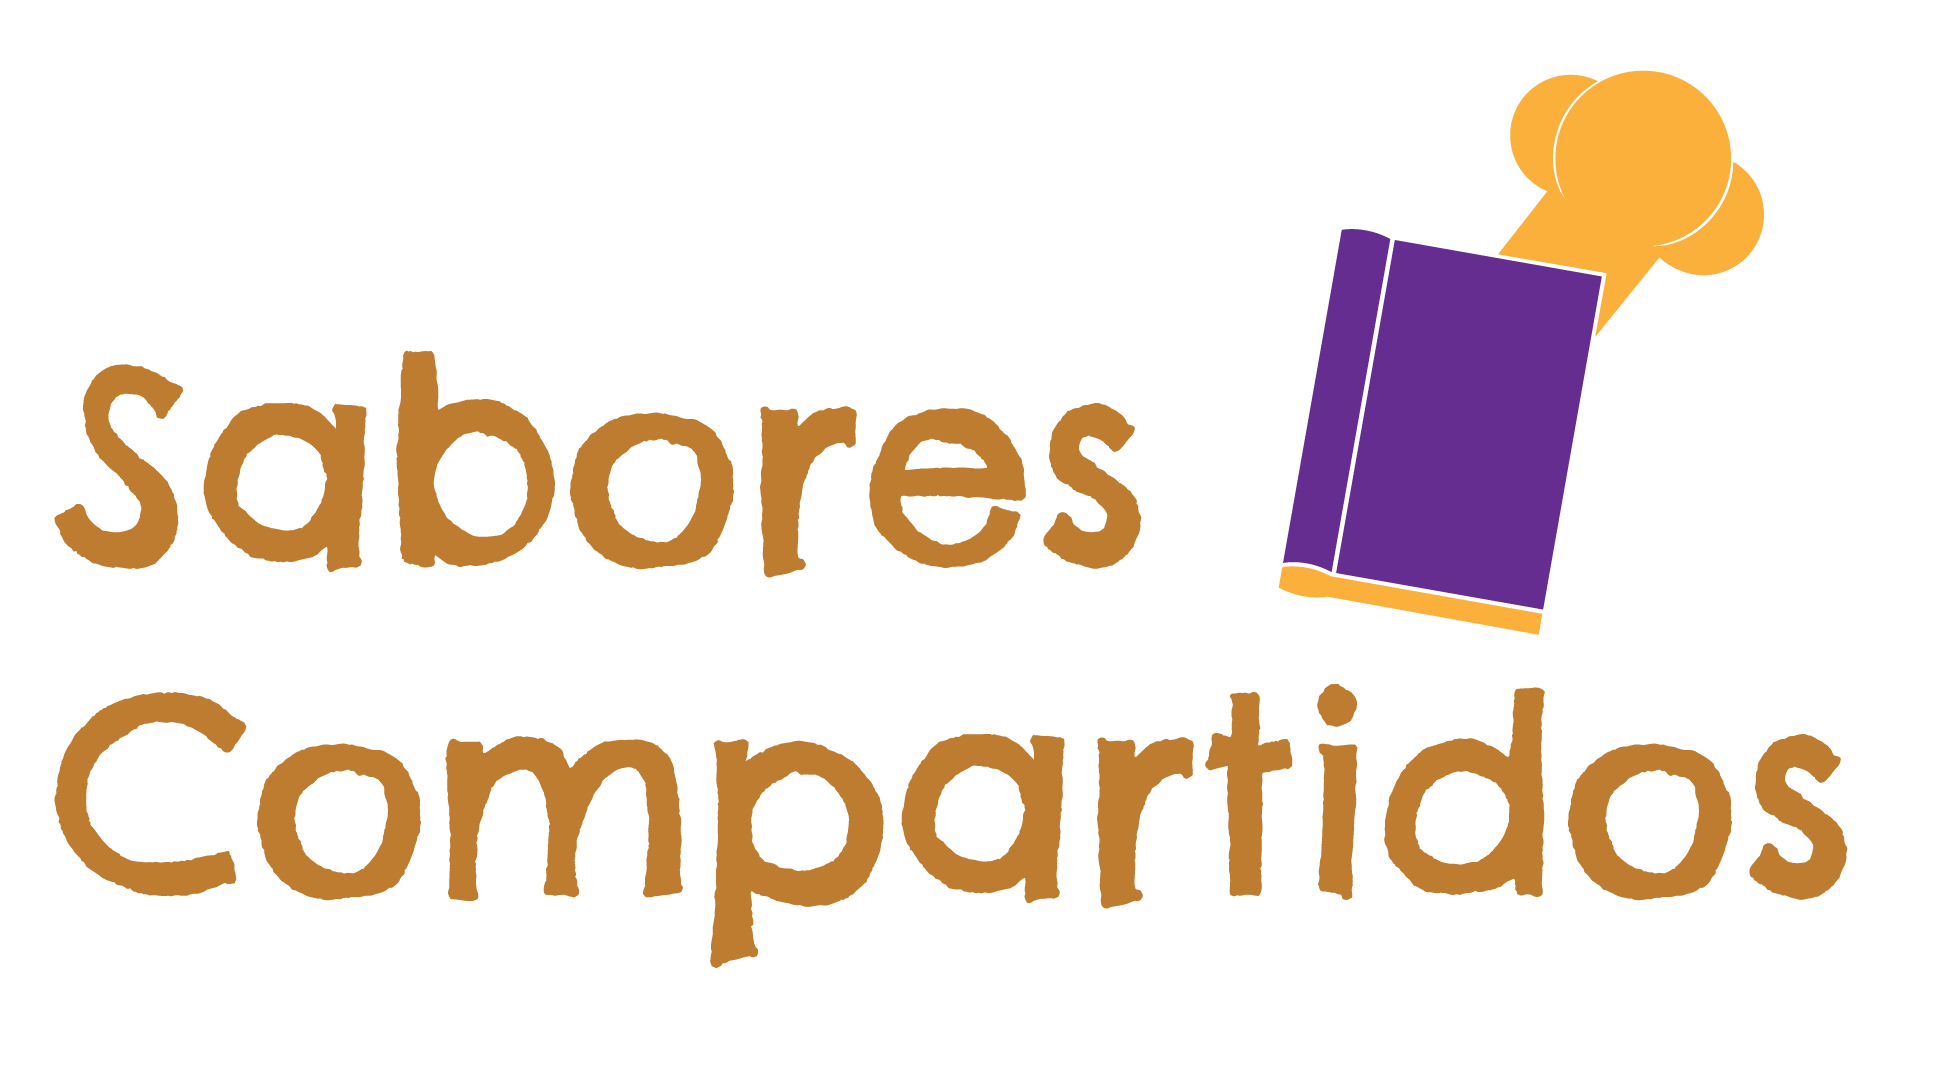
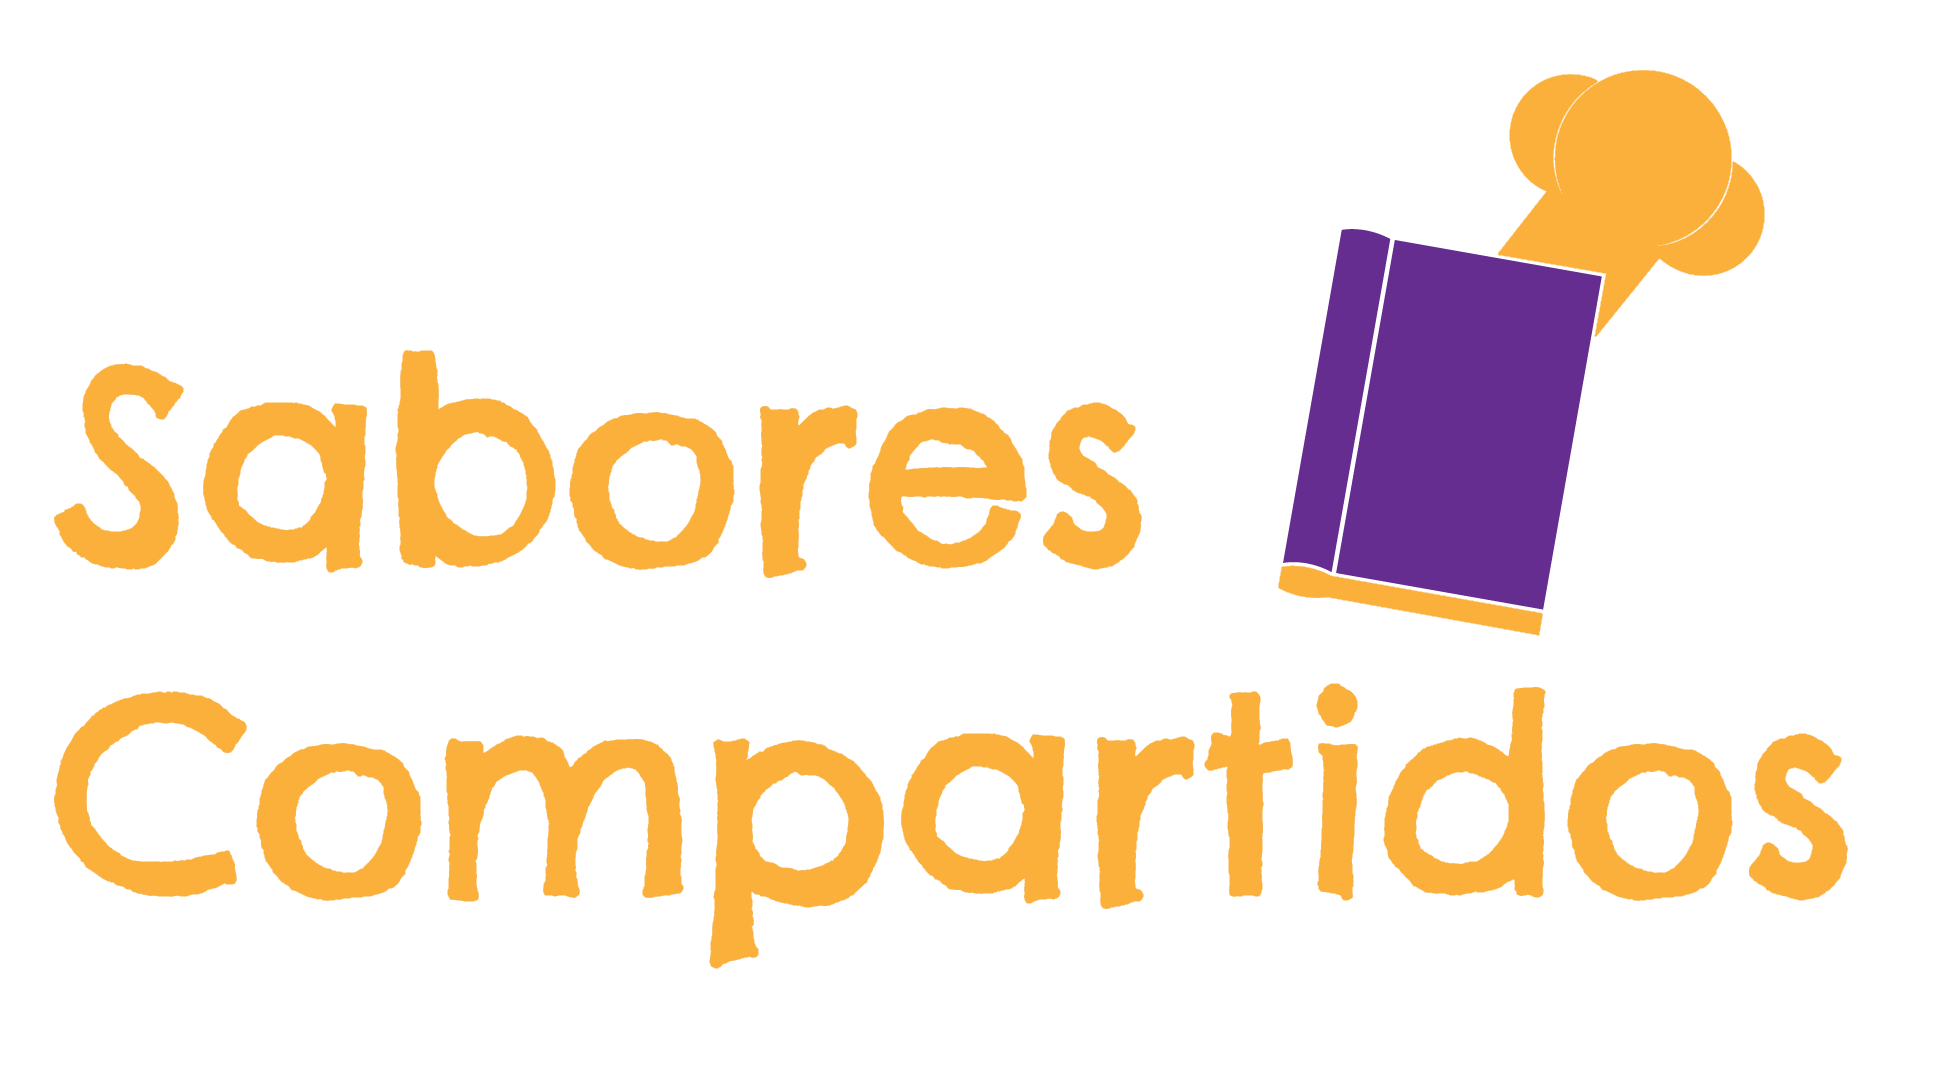
XD

Changed region(s): [[0.0308, 0.6186, 0.9558, 0.8969], [0.0308, 0.3093, 0.5858, 0.5567]]

diff --git a/SaboresCompartidos/index.html b/SaboresCompartidos/index.html
@@ -12,37 +12,31 @@
 </head>
 <body class="d-flex flex-column" data-bs-theme="dark">
 	<header>
-		<nav class="navbar navbar-expand-lg bg-primary">
+		<nav class="navbar navbar-expand-lg bg-success">
 			<div class="container-fluid w-50 mx-auto">
 				<a class="navbar-brand" href="#">
 					<img src="img/Imagotipo.png" alt="Sabores Compartidos" height="64">
 				</a>
 
+				<div class="flex-grow-1"></div>
+
 				<button class="navbar-toggler" type="button" data-bs-toggle="collapse" data-bs-target="#navbarSupportedContent" aria-controls="navbarSupportedContent" aria-expanded="false" aria-label="Toggle navigation">
 					<span class="navbar-toggler-icon"></span>
 				</button>
 
-				<div class="collapse navbar-collapse" id="navbarSupportedContent">
-					<ul class="navbar-nav me-auto mb-2 mb-lg-0">
+				<div class="collapse navbar-collapse justify-content-end" id="navbarSupportedContent">
+					<ul class="navbar-nav mb-2 mb-lg-0 p-0">
 						<li class="nav-item">
-							<a class="nav-link active" aria-current="page" href="#">Home</a>
+							<a class="nav-link active" aria-current="page" href="#">Inicio</a>
 						</li>
 						<li class="nav-item">
-							<a class="nav-link" href="#">Link</a>
-						</li>
-						<li class="nav-item dropdown">
-							<a class="nav-link dropdown-toggle" href="#" role="button" data-bs-toggle="dropdown" aria-expanded="false">
-								Dropdown
-							</a>
-							<ul class="dropdown-menu">
-								<li><a class="dropdown-item" href="#">Action</a></li>
-								<li><a class="dropdown-item" href="#">Another action</a></li>
-								<li><hr class="dropdown-divider"></li>
-								<li><a class="dropdown-item" href="#">Something else here</a></li>
-							</ul>
+							<a class="nav-link" href="#">Manual de Uso</a>
 						</li>
 						<li class="nav-item">
-							<a class="nav-link disabled" aria-disabled="true">Disabled</a>
+							<a class="nav-link" href="#">Actualizaciones</a>
+						</li>
+						<li class="nav-item">
+							<a class="nav-link" href="#">Sobre Nosotros</a>
 						</li>
 					</ul>
 				</div>
@@ -50,11 +44,54 @@
 		</nav>
 	</header>
 
-	<main class="flex-grow-1">
-		
-	</main>
+<main class="flex-grow-1 container mx-auto my-3">
+	<div id="carouselMain" class="carousel slide">
+		<div class="carousel-indicators">
+			<button type="button" data-bs-target="#carouselMain" data-bs-slide-to="0" class="active" aria-current="true" aria-label="Slide 1"></button>
+			<button type="button" data-bs-target="#carouselMain" data-bs-slide-to="1" aria-label="Slide 2"></button>
+			<button type="button" data-bs-target="#carouselMain" data-bs-slide-to="2" aria-label="Slide 3"></button>
+		</div>
+		<div class="carousel-inner">
+			<div class="carousel-item active">
+				<img src="..." class="d-block w-100 placeholder" height="512" alt="...">
+			</div>
+			<div class="carousel-item">
+				<img src="..." class="d-block w-100 placeholder" height="512" alt="...">
+			</div>
+			<div class="carousel-item">
+				<img src="..." class="d-block w-100 placeholder" height="512" alt="...">
+			</div>
+		</div>
+		<button class="carousel-control-prev" type="button" data-bs-target="#carouselMain" data-bs-slide="prev">
+			<span class="carousel-control-prev-icon" aria-hidden="true"></span>
+			<span class="visually-hidden">Previous</span>
+		</button>
+		<button class="carousel-control-next" type="button" data-bs-target="#carouselMain" data-bs-slide="next">
+			<span class="carousel-control-next-icon" aria-hidden="true"></span>
+			<span class="visually-hidden">Next</span>
+		</button>
+	</div>
 
-	<footer class="d-flex justify-content-center align-items-center bg-primary p-3">
+	<br><br>
+
+	<div class="text-bg-light row p-3 m-0">
+		<div class="col">
+			<h3>Descarga la aplicación</h3>
+			<p>
+				Lorem ipsum dolor, sit amet consectetur adipisicing elit. Enim veritatis libero accusantium quisquam, quibusdam pariatur, natus, doloribus voluptatum non eum amet suscipit ullam reiciendis dolores voluptatibus assumenda temporibus quia facere.
+			</p>
+
+			<a class="btn btn-primary">
+				Descargar
+			</a>
+		</div>
+		<div class="col-auto">
+			<img src="..." class="d-block placeholder" height="512" width="384" alt="...">
+		</div>
+	</div>
+</main>
+
+	<footer class="d-flex justify-content-center align-items-center bg-success p-3 mt-3">
 		<address class="my-2">MikeSJ</address>
 	</footer>
 </body>

diff --git a/SaboresCompartidos/css/styles.css b/SaboresCompartidos/css/styles.css
@@ -1,6 +1,8 @@
 *
 {
-	--bs-primary-rgb: 0, 163, 125;
+	--bs-primary-rgb: 251, 176, 59;
+	--bs-secondary-rgb: 102, 45, 145;
+	--bs-success-rgb: 0, 150, 100;
 }
 
 body
